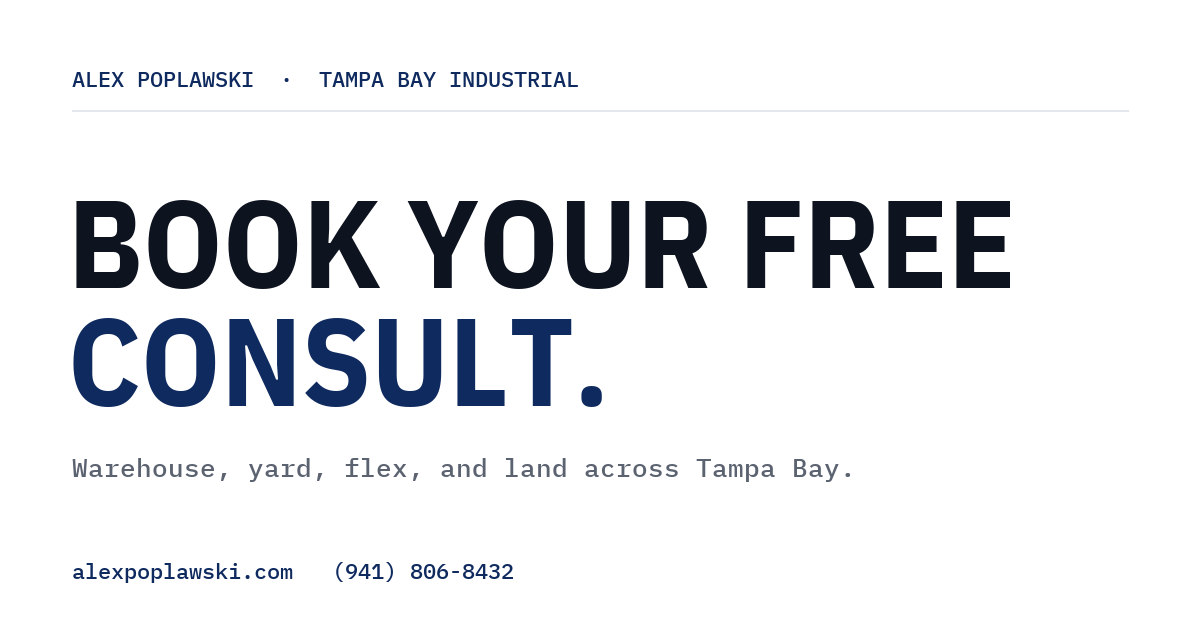
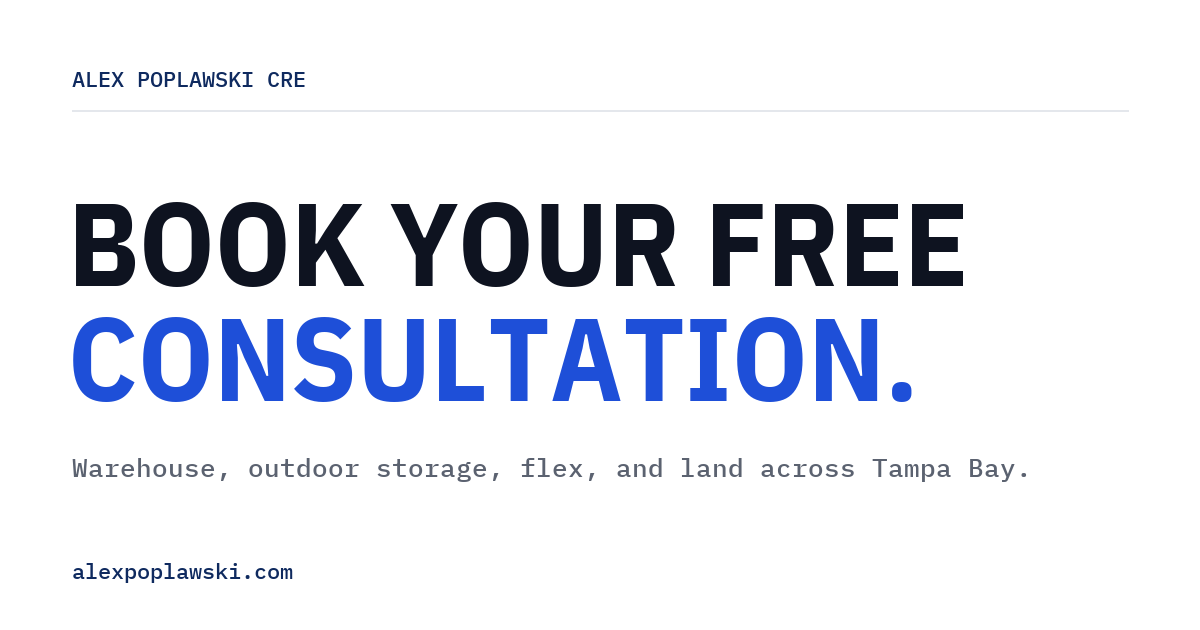
alexpoplawski.com v3: consultation wording, Tom-style timeline questions, no header/footer, brighter accent
"Book your free consultation." (second line in a brighter blue, same on the
button), $128M line dropped, yard -> outdoor storage, "Market advice" replaces
"Not sure yet", Timeline = lease-expiry (optional) + urgency (required),
landlord-renewal placeholder, header bar and footer removed; only "Alex or a
team member will reach out within one business day" under the button. Thanks
page and OG image match.

diff --git a/site/index.html b/site/index.html
@@ -3,13 +3,13 @@
 <head>
 <meta charset="utf-8">
 <meta name="viewport" content="width=device-width, initial-scale=1">
-<title>Book your free consult - Alex Poplawski</title>
-<meta name="description" content="Warehouse, yard, flex, or land in Tampa Bay. Tell me what you're working with and I'll take it from there. Reply within one business day.">
+<title>Book your free consultation - Alex Poplawski</title>
+<meta name="description" content="Warehouse, outdoor storage, flex, or land in Tampa Bay. Tell me what you're working with and I'll take it from there. Reply within one business day.">
 <link rel="canonical" href="https://alexpoplawski.com/">
 <meta property="og:type" content="website">
 <meta property="og:url" content="https://alexpoplawski.com/">
-<meta property="og:title" content="Book your free consult - Alex Poplawski">
-<meta property="og:description" content="Warehouse, yard, flex, or land in Tampa Bay. Tell me what you're working with and I'll take it from there.">
+<meta property="og:title" content="Book your free consultation - Alex Poplawski">
+<meta property="og:description" content="Warehouse, outdoor storage, flex, or land in Tampa Bay. Tell me what you're working with and I'll take it from there.">
 <meta property="og:image" content="https://alexpoplawski.com/og.png">
 <meta name="twitter:card" content="summary_large_image">
 <link rel="icon" href="/favicon.svg" type="image/svg+xml">
@@ -21,14 +21,10 @@
 </head>
 <body>
 <div class="wrap">
-  <header class="top">
-    <span>Alex Poplawski<span class="tag"> &middot; Tampa Bay industrial</span></span>
-    <a href="tel:+19418068432">(941) 806-8432</a>
-  </header>
-
   <main>
-    <h1>Book your free<br><span>consult.</span></h1>
-    <p class="lede">$128M+ closed. Warehouse, yard, flex, and land across Tampa Bay. Tell me what you're working with and I'll take it from there.</p>
+    <p class="eyebrow">Alex Poplawski CRE</p>
+    <h1>Book your free<br><span>consultation.</span></h1>
+    <p class="lede">Warehouse, outdoor storage, flex, and land across Tampa Bay. Tell me what you're working with and I'll take it from there.</p>
 
     <form id="lead" action="https://n8n.ayxco.com/webhook/alexpoplawski-lead" method="post" novalidate>
       <input type="hidden" name="t" value="">
@@ -51,12 +47,12 @@
       <fieldset>
         <legend>02 / What you need</legend>
         <div class="f">
-          <span class="lbl">I want to <em>*</em></span>
-          <div class="pills" role="radiogroup" aria-label="I want to">
-            <label><input type="radio" name="need" value="lease" required><span>Lease space</span></label>
+          <span class="lbl">What do you need help with? <em>*</em></span>
+          <div class="pills" role="radiogroup" aria-label="What do you need help with">
+            <label><input type="radio" name="need" value="lease" required><span>Lease a space</span></label>
             <label><input type="radio" name="need" value="buy"><span>Buy a property</span></label>
             <label><input type="radio" name="need" value="sell"><span>Sell a property</span></label>
-            <label><input type="radio" name="need" value="not_sure"><span>Not sure yet</span></label>
+            <label><input type="radio" name="need" value="advice"><span>Market advice</span></label>
           </div>
         </div>
         <div class="row" data-when="space">
@@ -69,7 +65,7 @@
               <option value="10000_25000">10,000 to 25,000 SF</option>
               <option value="25000_50000">25,000 to 50,000 SF</option>
               <option value="50000_plus">50,000+ SF</option>
-              <option value="no_building">Yard or land only</option>
+              <option value="no_building">Outdoor storage or land only</option>
               <option value="not_sure">Not sure yet</option>
             </select>
           </label>
@@ -94,36 +90,44 @@
       </fieldset>
 
       <fieldset>
-        <legend>03 / Timing</legend>
-        <label class="f"><span class="lbl">How soon? <em>*</em></span>
-          <select name="timing" required>
-            <option value="">Select one</option>
-            <option value="now">Need to move now</option>
-            <option value="3_months">Next 3 months</option>
-            <option value="6_months">3 to 6 months</option>
-            <option value="12_months">6 to 12 months</option>
-            <option value="exploring">Just exploring</option>
-          </select>
-        </label>
+        <legend>03 / Timeline</legend>
+        <div class="row">
+          <label class="f" data-when="space"><span class="lbl">When does your current lease expire?</span>
+            <select name="lease_ends">
+              <option value="">Select one</option>
+              <option value="expired_mtm">Already expired / month-to-month</option>
+              <option value="under_6">Less than 6 months</option>
+              <option value="6_12">6 to 12 months</option>
+              <option value="12_18">12 to 18 months</option>
+              <option value="18_plus">18+ months</option>
+              <option value="none">No existing lease</option>
+              <option value="na">Not applicable</option>
+            </select>
+          </label>
+          <label class="f"><span class="lbl">How urgent is this? <em>*</em></span>
+            <select name="timing" required>
+              <option value="">Select one</option>
+              <option value="now">Need to move now</option>
+              <option value="3_months">Next 3 months</option>
+              <option value="6_months">3 to 6 months</option>
+              <option value="exploring">Just exploring</option>
+            </select>
+          </label>
+        </div>
       </fieldset>
 
       <fieldset>
-        <legend>04 / Anything else</legend>
-        <label class="f"><span class="lbl">Tell me what's going on</span><textarea name="details" rows="4" placeholder="Doors, clear height, power, yard, a building you already saw, your current lease. Whatever matters."></textarea></label>
+        <legend>04 / Context</legend>
+        <label class="f"><span class="lbl">Tell me what's going on</span><textarea name="details" rows="4" placeholder="My landlord just sent a renewal at $14 psf. I'm not sure if that's fair for Tampa right now..."></textarea></label>
       </fieldset>
 
       <div class="submit">
-        <button type="submit" class="btn">Book free consult</button>
-        <p class="fine">I read these myself and call back within one business day.</p>
+        <button type="submit" class="btn">Book free consultation</button>
+        <p class="fine">Alex or a team member will reach out within one business day.</p>
         <p class="status" role="status" aria-live="polite"></p>
       </div>
     </form>
   </main>
-
-  <footer>
-    <span>Alex Poplawski &middot; <a href="tel:+19418068432">(941) 806-8432</a> &middot; <a href="mailto:alex@axis.deals">alex@axis.deals</a></span>
-    <span>Alexander Poplawski LLC d/b/a AXIS &middot; Sarasota, FL</span>
-  </footer>
 </div>
 <script src="/form.js" defer></script>
 </body>

diff --git a/site/styles.css b/site/styles.css
@@ -4,6 +4,8 @@
   --ink: #0e1320;
   --navy: #0f2a5f;
   --navy-2: #0a1f47;
+  --accent: #1e4fd8;
+  --accent-2: #173fb0;
   --muted: #5b6270;
   --line: #e4e7ec;
   --border: #c9cfd9;
@@ -33,13 +35,15 @@ em { font-style: normal; }
 .top a { text-decoration: none; white-space: nowrap; }
 
 /* Headline */
+.eyebrow { font-family: "IBM Plex Mono", ui-monospace, Menlo, monospace; font-size: 12px; letter-spacing: 0.16em; text-transform: uppercase; color: var(--navy); margin: 56px 0 0; }
+.eyebrow + h1 { margin-top: 18px; }
 h1 {
   font-family: "IBM Plex Sans Condensed", "Arial Narrow", Impact, sans-serif;
   font-weight: 700; text-transform: uppercase;
   font-size: clamp(44px, 9vw, 74px); line-height: 0.94; letter-spacing: -0.01em;
   margin: 72px 0 22px;
 }
-h1 span { color: var(--navy); }
+h1 span { color: var(--accent); }
 .lede { font-size: 17px; color: var(--muted); max-width: 50ch; margin: 0 0 52px; }
 .back { font-family: "IBM Plex Mono", monospace; font-size: 13px; text-transform: uppercase; letter-spacing: 0.1em; }
 
@@ -54,7 +58,7 @@ legend {
 .row { display: grid; grid-template-columns: 1fr 1fr; gap: 16px; }
 .f { display: block; margin-bottom: 16px; }
 .lbl { display: block; font-size: 13px; font-weight: 600; margin-bottom: 6px; }
-.lbl em { color: var(--navy); }
+.lbl em { color: var(--accent); }
 input:not([type="radio"]):not([type="checkbox"]), select, textarea {
   width: 100%; font: inherit; font-size: 16px; color: var(--ink);
   padding: 12px 14px; border: 1px solid var(--border); border-radius: 6px; background: #fff;
@@ -86,12 +90,12 @@ input:focus, select:focus, textarea:focus { outline: none; border-color: var(--n
   display: block; width: 100%; cursor: pointer;
   font-family: "IBM Plex Sans Condensed", "Arial Narrow", Impact, sans-serif;
   font-weight: 700; text-transform: uppercase; letter-spacing: 0.05em; font-size: 22px; line-height: 1;
-  padding: 18px 20px; border: 0; border-radius: 6px; background: var(--navy); color: #fff;
+  padding: 18px 20px; border: 0; border-radius: 6px; background: var(--accent); color: #fff;
 }
-.btn:hover { background: var(--navy-2); }
+.btn:hover { background: var(--accent-2); }
 .btn:disabled { opacity: 0.6; cursor: default; }
 .btn:focus-visible { outline: none; box-shadow: 0 0 0 4px var(--focus); }
-.fine { font-size: 13px; color: var(--muted); margin: 14px 0 0; }
+.fine { font-size: 13px; color: var(--muted); margin: 14px 0 64px; }
 .status { font-size: 14px; color: var(--danger); margin: 10px 0 0; }
 .status:empty { display: none; }
 

diff --git a/site/thanks/index.html b/site/thanks/index.html
@@ -14,13 +14,10 @@
 </head>
 <body>
 <div class="wrap">
-  <header class="top">
-    <span>Alex Poplawski<span class="tag"> &middot; Tampa Bay industrial</span></span>
-    <a href="tel:+19418068432">(941) 806-8432</a>
-  </header>
   <main>
+    <p class="eyebrow">Alex Poplawski CRE</p>
     <h1>Got <span>it.</span></h1>
-    <p class="lede no-cal">I'll reach out directly within one business day. Can't wait? Call or text <a href="tel:+19418068432">(941) 806-8432</a>.</p>
+    <p class="lede no-cal">Alex or a team member will reach out within one business day. Can't wait? Call or text <a href="tel:+19418068432">(941) 806-8432</a>.</p>
     <p class="lede with-cal" hidden>Two ways from here. Pick whichever you like.</p>
 
     <section class="choice with-cal" hidden>
@@ -31,15 +28,11 @@
 
     <section class="choice with-cal" hidden>
       <p class="choice-label"><span class="num">2</span> Or sit tight</p>
-      <p class="choice-text">I'll reach out directly within one business day. Can't wait? Call or text <a href="tel:+19418068432">(941) 806-8432</a>.</p>
+      <p class="choice-text">Alex or a team member will reach out within one business day. Can't wait? Call or text <a href="tel:+19418068432">(941) 806-8432</a>.</p>
     </section>
 
     <p><a class="back" href="/">Back</a></p>
   </main>
-  <footer>
-    <span>Alex Poplawski &middot; <a href="tel:+19418068432">(941) 806-8432</a> &middot; <a href="mailto:alex@axis.deals">alex@axis.deals</a></span>
-    <span>Alexander Poplawski LLC d/b/a AXIS &middot; Sarasota, FL</span>
-  </footer>
 </div>
 <script>
 (function () {
